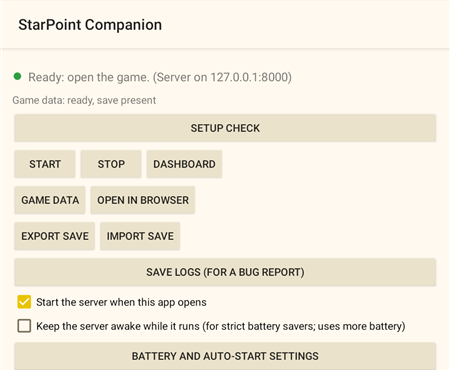
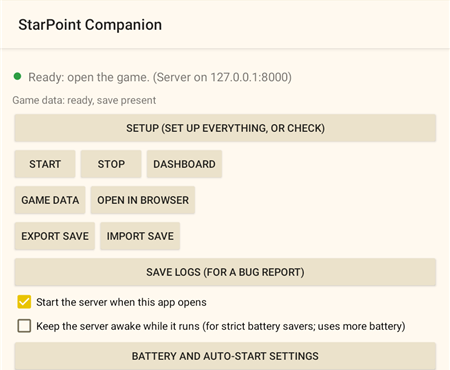
INSTALL.md one-button setup: pictures of the new Setup button, Set up everything, its "This will" list, "Delete the imported packs?" and the All set result; step-by-step pictures noted as from the earlier version; by-hand step links fixed; README step 1 says to leave the downloads in Download unzipp

Changed region(s): [[0.28, 0.327, 0.7467, 0.3568]]

diff --git a/docs/INSTALL.md b/docs/INSTALL.md
@@ -91,27 +91,45 @@ node scripts/build_cn_obb.cjs <output folder> --parts 3
 
 ### The easy way: one button
 
-1. Put the downloads in the phone's **Download** folder (where the browser saves them anyway, or copy
-   them there from a PC over USB): the OBB, `starpoint-data.zip`, and the comics zip if you want comics.
-   Don't unzip or rename anything.
-2. Install both APKs. **Don't open the game yet.**
-3. Open **StarPoint Companion** and tap **Setup** at the top, then **Set up everything**.
-   - Android asks to let StarPoint Companion use the phone's storage: tap **Allow** (on Android 11 and
-     newer it opens the **All files access** page: switch it on and go back).
-   - Then it opens World Flipper's settings (listed under its Chinese name, **世界弹射物语**): turn on
-     **All files access** and allow the storage permissions (on Android 13 and newer: **Music and audio**
-     and **Photos and videos**), then go back.
-   - It lists what it's about to do. Tap **Go** and keep the screen open: it checks the OBB is undamaged
-     and moves it where the game reads it, imports the data and comics zips, removes leftovers from an
-     earlier setup and starts the server. It takes a few minutes.
-   - At the end it offers to delete the zips it imported (**Delete** frees the space; **Keep** is fine
-     too) and says **All set**, or what's still missing (a download it couldn't find, or a damaged one).
-4. When the main screen's light is **green: Ready**, open the game. It shows "Unpacking game files",
-   unpacks the OBB by itself and deletes it when done.
+1. **Download the files** to the phone: the OBB, `starpoint-data.zip`, and the comics zip if you want
+   comics. Leave them in the phone's **Download** folder, where the browser saves them (or copy them
+   there from a PC over USB). Don't unzip or rename anything.
+2. **Install both APKs**: World Flipper and StarPoint Companion. **Don't open the game yet.**
+3. **Open StarPoint Companion** and tap the button at the top, **Setup (set up everything, or check)**.
+
+   ![StarPoint Companion's main screen with the Setup button at the top](images/install-p-main.png)
+4. **Tap Set up everything.**
+
+   ![The Setup screen with the Set up everything button](images/install-p-setup-button.png)
+
+   Then do what it asks:
+   - **Android asks** to let StarPoint Companion use the phone's storage: tap **Allow**. (On Android 11
+     and newer it opens the **All files access** page instead: switch it on, then press Back.)
+   - **It opens World Flipper's settings.** The game is listed under its Chinese name, **世界弹射物语**.
+     Turn on **All files access**, and under **Permissions** allow the storage permissions (on Android 13
+     and newer: **Music and audio** and **Photos and videos**). Then press Back. The app carries on by
+     itself.
+   - **It shows a list of what it will do.** Tap **Go**.
+
+     ![Set up everything: This will import the data pack. Keep this screen open until it's done. Cancel or Go](images/install-p-this-will.png)
+5. **Wait, and keep the screen open.** It checks the OBB isn't damaged and moves it where the game reads
+   it, imports the data and comics zips, cleans up leftovers from an earlier setup and starts the server.
+   This can take a few minutes.
+6. **It asks whether to delete the zips** it imported. **Delete** frees the space; **Keep** is fine too.
+
+   ![Delete the imported packs? Keep or Delete](images/install-p-delete-packs.png)
+7. **It says All set.** If something is still missing (a download it couldn't find, or a damaged one), it
+   says what instead, under **Still to do**.
+
+   ![The end of Set up everything: Server ready, Data pack imported, All set](images/install-p-all-set.png)
+8. **Open the game** once the server line says **ready** (the main screen's light is **green: Ready**).
+   The first time, it shows "Unpacking game files", unpacks the OBB by itself and deletes it when done.
 
 ### Step by step: Setup check
 
-If **Set up everything** says something is missing, or you'd rather do each step yourself:
+If **Set up everything** says something is missing, or you'd rather do each step yourself. (Some pictures
+below are from an earlier version, where the main button read **Setup check** and the Setup screen had no
+**Set up everything** button; the list itself is the same.)
 
 1. Put the downloads in **Download** and install both APKs, as above.
 2. Open **StarPoint Companion**. The first time, its light is red and it says **Game data: missing**:
@@ -181,11 +199,11 @@ the data pack, the comics zip, the game APK) without changing anything.
    not Copy: a copy needs twice the space). Don't let anything compress or zip them. To check a download,
    compare its SHA-256 with the [list above](#checksums).
 4. Android Settings > Apps > World Flipper (listed as **世界弹射物语**): turn on **All files access**, and under **Permissions** allow
-   the storage permissions (as in step 4 above).
+   the storage permissions (as in [step 3 of Step by step](#step-by-step-setup-check)).
 5. Install StarPoint Companion, import `starpoint-data.zip` (**Game data** > **Import pack...**), and
    start the server: the main screen should say **Server: running**. Tap **Let the server run in the
    background**, and allow notifications if asked.
-6. Open the game, as in step 5 above.
+6. Open the game, as in [step 8 of the easy way](#the-easy-way-one-button).
 
 ### Keeping the server running
 

diff --git a/README.md b/README.md
@@ -31,7 +31,8 @@ hiccups on its Android 15 one).
 
 1. Download the files from the [Google Drive folder](https://drive.google.com/drive/folders/1EdY0GajMm-v6c219s02ZnuEz0u_0XdOO) (or [MEGA](https://mega.nz/folder/fWRATYbJ#z8wtDI7krmKgBn2HL_s0jg)): the two APKs,
    `starpoint-data.zip`, the comics zip if you want comics, and the game files: either the three
-   `.obb` parts, or the single large `.obb` (Google Drive only).
+   `.obb` parts, or the single large `.obb` (Google Drive only). Leave them in the phone's **Download**
+   folder and don't unzip anything.
 2. Install both APKs: **World Flipper** (the game) and **StarPoint Companion**.
 3. Open **StarPoint Companion**.
 4. Tap **Setup** at the top, then **Set up everything**, and allow what Android asks. It finds the
